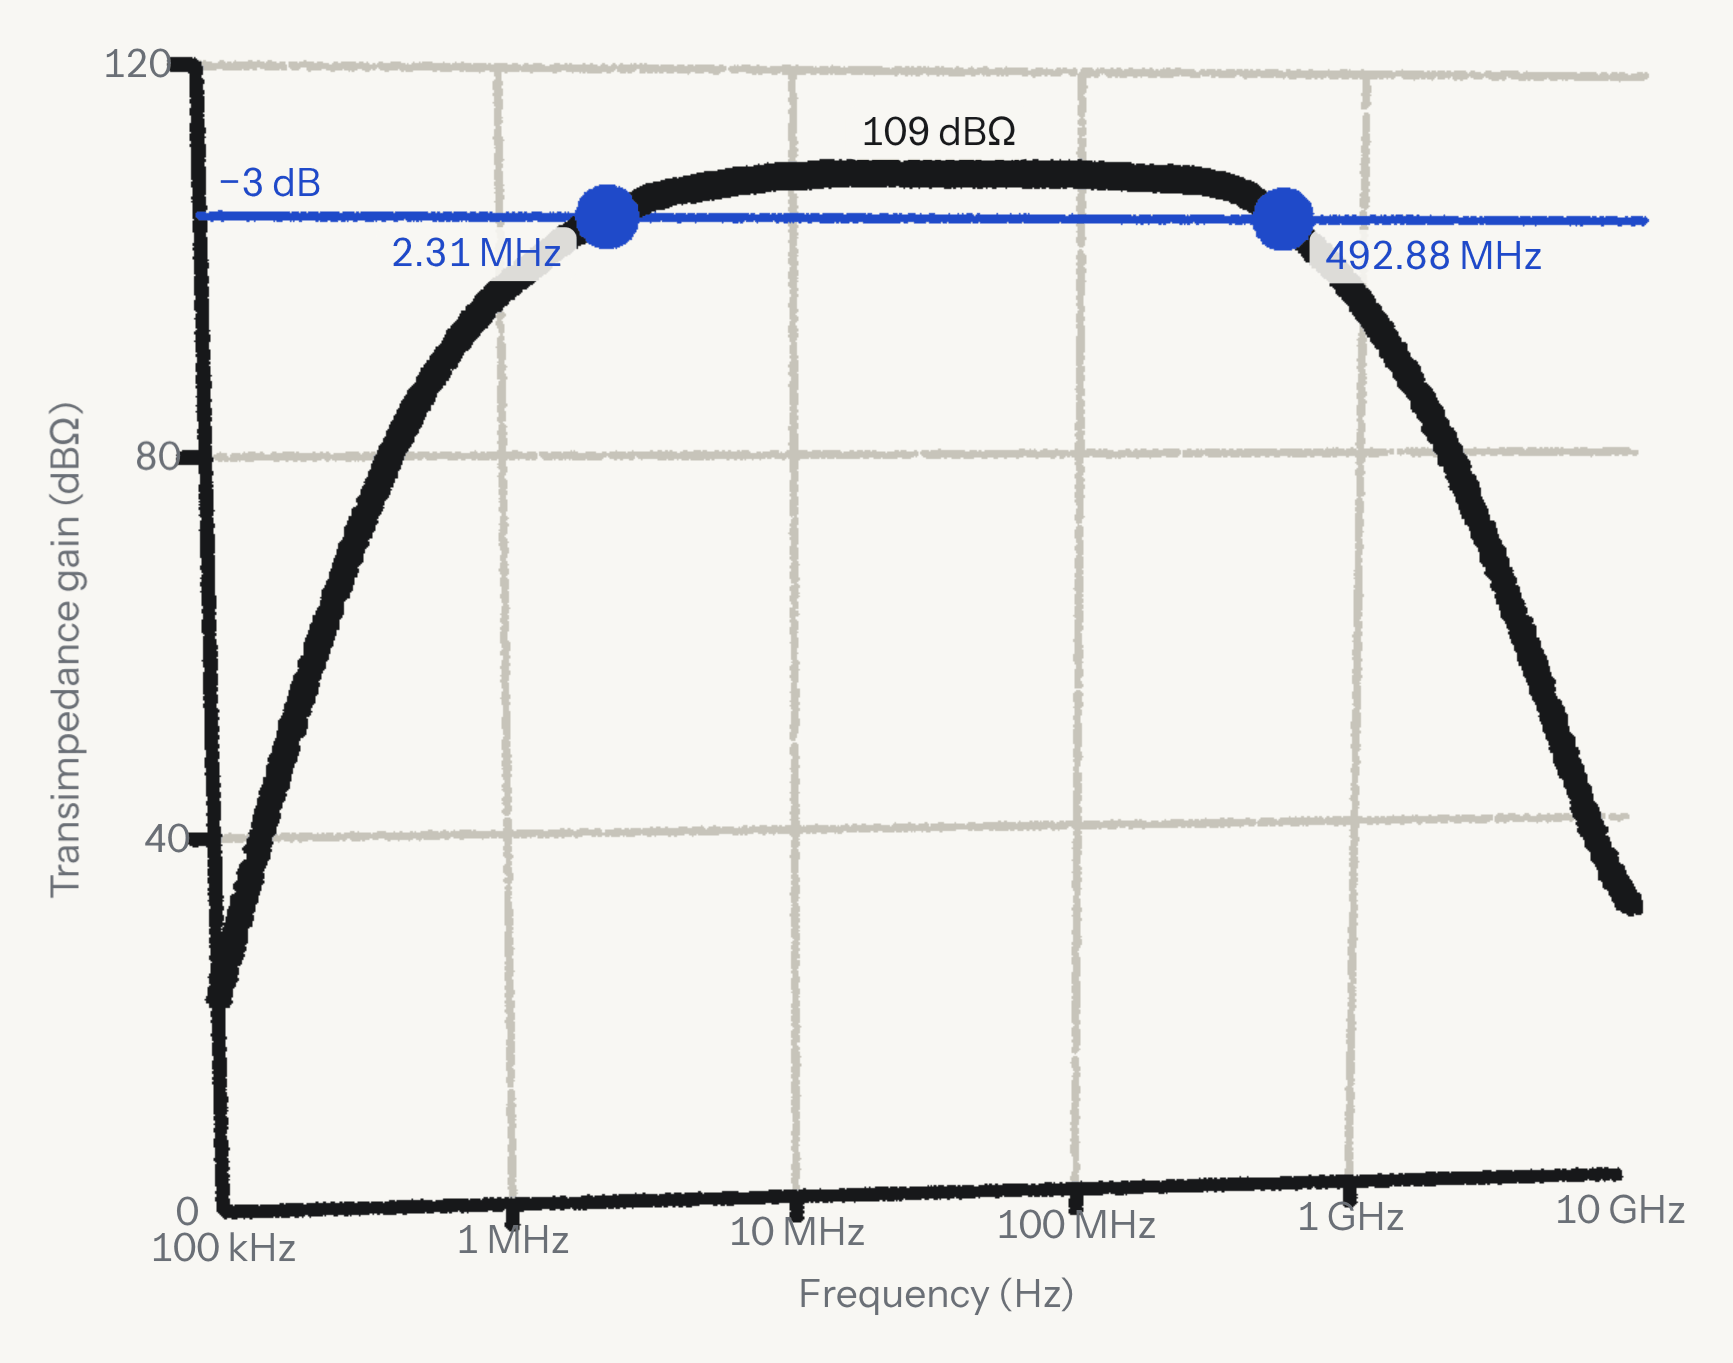
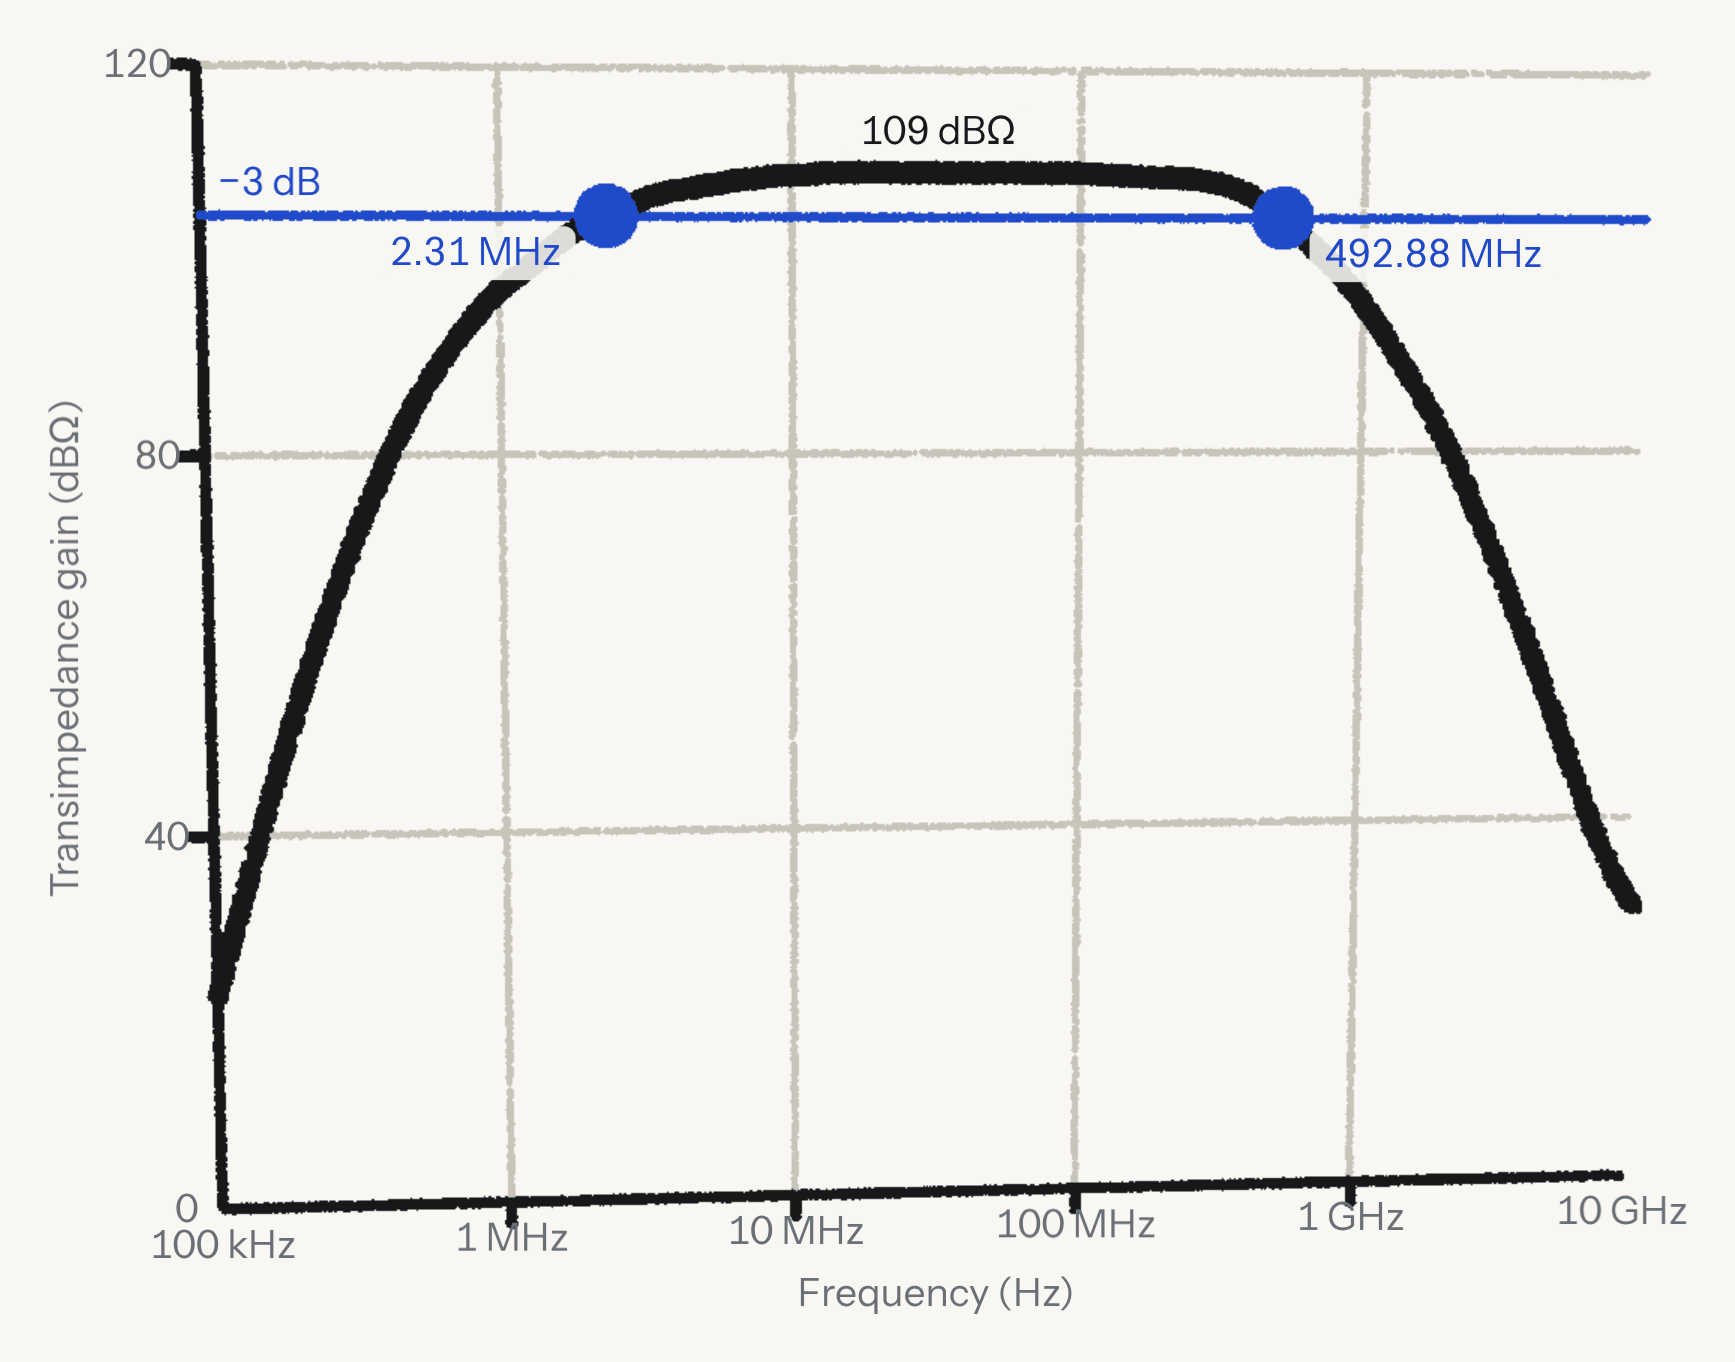
Hero holds each shape longer; thinner, crisper TIA line work; static figures re-captured
The hero track is 130vh per shape. Wires, axes and curves in the TIA shapes
use thinner rods and smaller points, so the drawings read sharper. The three
3x static figures are re-captured from the new shapes.

Claude-Session: https://claude.ai/code/session_018LMzagV9NcEfjj8oFWPqm4

diff --git a/assets/js/cloud.js b/assets/js/cloud.js
@@ -201,24 +201,24 @@
   // tubes. Values are mapped to the box X0..X1 by Y0..Y1; labels are HTML tags anchored to points.
   var X0 = -1.95, X1 = 2.25, Y0 = -1.4, Y1 = 1.9;
   function axesParts(parts, x0, x1, y0, y1, xs, ys) {
-    xs.forEach(function (x) { parts.push({ w: 0.08, emit: rod([x, y0, -0.02], [x, y1, -0.02], 0.006, LIGHT, 0.8 * COV) }); parts.push({ w: 0.015, emit: rod([x, y0 - 0.07, 0], [x, y0, 0], 0.012, INK, 0.9 * COV) }); });
-    ys.forEach(function (y) { parts.push({ w: 0.1, emit: rod([x0, y, -0.02], [x1, y, -0.02], 0.006, LIGHT, 0.8 * COV) }); parts.push({ w: 0.015, emit: rod([x0 - 0.07, y, 0], [x0, y, 0], 0.012, INK, 0.9 * COV) }); });
-    parts.push({ w: 0.4, emit: rod([x0, y0, 0], [x1, y0, 0], 0.012, INK, 0.9 * COV) });
-    parts.push({ w: 0.32, emit: rod([x0, y0, 0], [x0, y1, 0], 0.012, INK, 0.9 * COV) });
+    xs.forEach(function (x) { parts.push({ w: 0.08, emit: rod([x, y0, -0.02], [x, y1, -0.02], 0.005, LIGHT, 0.75 * COV) }); parts.push({ w: 0.015, emit: rod([x, y0 - 0.07, 0], [x, y0, 0], 0.009, INK, 0.8 * COV) }); });
+    ys.forEach(function (y) { parts.push({ w: 0.1, emit: rod([x0, y, -0.02], [x1, y, -0.02], 0.005, LIGHT, 0.75 * COV) }); parts.push({ w: 0.015, emit: rod([x0 - 0.07, y, 0], [x0, y, 0], 0.009, INK, 0.8 * COV) }); });
+    parts.push({ w: 0.4, emit: rod([x0, y0, 0], [x1, y0, 0], 0.009, INK, 0.8 * COV) });
+    parts.push({ w: 0.32, emit: rod([x0, y0, 0], [x0, y1, 0], 0.009, INK, 0.8 * COV) });
     return parts;
   }
   function chart(xs, ys) { return axesParts([], X0, X1, Y0, Y1, xs, ys); }
   // Points along a curve given as [x,y] in scene units, as a tube of the given radius at depth z.
   // wave is the amplitude the vertex shader adds as a travelling sine (0 for still points).
   function curve(fn, radius, z, color, wave) {
-    return function () { var s = rnd(), xy = fn(s), th = rnd() * 6.2832, r = radius * Math.sqrt(rnd()); return [xy[0] + r * Math.cos(th), xy[1] + r * Math.sin(th), z + (rnd() - .5) * radius, color, 1.1 * COV, wave || 0]; };
+    return function () { var s = rnd(), xy = fn(s), th = rnd() * 6.2832, r = radius * Math.sqrt(rnd()); return [xy[0] + r * Math.cos(th), xy[1] + r * Math.sin(th), z + (rnd() - .5) * radius, color, 0.95 * COV, wave || 0]; };
   }
   function disc(c, r, color) {
     return function () { var th = rnd() * 6.2832, q = r * Math.sqrt(rnd()); return [c[0] + q * Math.cos(th), c[1] + q * Math.sin(th), c[2], color, 1.1 * COV]; };
   }
 
   // ---- Schematic drawing: wires and symbols in the x-y plane, as parts ----
-  var WIRE = 0.012, SYM = 1.25;
+  var WIRE = 0.009, SYM = 0.95;   // thin wires drawn with small, dense points read crisper than thick fuzzy ones
   function W(parts, a, b, color, r) { var len = Math.hypot(b[0] - a[0], b[1] - a[1]); if (len < 1e-6) return; parts.push({ w: 0.42 * len, emit: rod([a[0], a[1], 0], [b[0], b[1], 0], r || WIRE, color, SYM * COV) }); }
   function poly(parts, pts, color) { for (var i = 1; i < pts.length; i++) W(parts, pts[i - 1], pts[i], color); }
   function arc(parts, c, r, a0, a1, color) { var n = 14, pts = []; for (var i = 0; i <= n; i++) { var a = a0 + (a1 - a0) * i / n; pts.push([c[0] + r * Math.cos(a), c[1] + r * Math.sin(a)]); } poly(parts, pts, color); }
@@ -367,8 +367,8 @@
     var parts = [], yiT = 1.95, yiB = 1.15, yvT = 0.75, yvB = -1.4, ci = (yiT + yiB) / 2, cv = (yvT + yvB) / 2, ai = 0.27, av = 0.297 / 0.33 * (yvT - cv);
     axesParts(parts, X0, X1, yiB, yiT, [], [ci]);
     axesParts(parts, X0, X1, yvB, yvT, [(X0 + X1) / 2], [cv, cv + av, cv - av]);
-    parts.push({ w: 1.0, emit: curve(function (s) { return [X0 + s * (X1 - X0), ci]; }, 0.024, 0.03, BLUE, ai) });
-    parts.push({ w: 1.6, emit: curve(function (s) { return [X0 + s * (X1 - X0), cv]; }, 0.03, 0.03, INK, av) });
+    parts.push({ w: 1.0, emit: curve(function (s) { return [X0 + s * (X1 - X0), ci]; }, 0.02, 0.03, BLUE, ai) });
+    parts.push({ w: 1.6, emit: curve(function (s) { return [X0 + s * (X1 - X0), cv]; }, 0.024, 0.03, INK, av) });
     // peak-to-peak brackets at the right edge
     [[ci, ai], [cv, av]].forEach(function (b) { var x = X1 + 0.14; parts.push({ w: 0.12, emit: rod([x, b[0] - b[1], 0], [x, b[0] + b[1], 0], 0.01, INK, 0.9 * COV) }); [-1, 1].forEach(function (s) { parts.push({ w: 0.03, emit: rod([x - 0.06, b[0] + s * b[1], 0], [x + 0.06, b[0] + s * b[1], 0], 0.01, INK, 0.9 * COV) }); }); });
     var tags = {
@@ -393,7 +393,7 @@
     var gainAt = function (lg) { var i = 0; while (i < data.length - 2 && data[i + 1][0] < lg) i++; var a = data[i], b = data[i + 1], f = Math.min(1, Math.max(0, (lg - a[0]) / (b[0] - a[0]))); return a[1] + (b[1] - a[1]) * f; };
     var lgStart = Math.max(LG0, data[0][0]);
     var parts = chart([6, 7, 8, 9].map(fx), [40, 80, 120].map(fy));
-    parts.push({ w: 1.6, emit: curve(function (s) { var lg = lgStart + s * (LG1 - lgStart); return [fx(lg), fy(Math.max(DB0, gainAt(lg)))]; }, 0.03, 0.03, INK) });
+    parts.push({ w: 1.6, emit: curve(function (s) { var lg = lgStart + s * (LG1 - lgStart); return [fx(lg), fy(Math.max(DB0, gainAt(lg)))]; }, 0.024, 0.03, INK) });
     parts.push({ w: 0.25, emit: rod([X0, fy(L3), 0.01], [X1, fy(L3), 0.01], 0.006, shade(BLUE, 1.0), 0.8 * COV) });
     var lo = Math.log10(2.31102e6), hi = Math.log10(492.868e6);
     parts.push({ w: 0.07, emit: disc([fx(lo), fy(L3), 0.05], 0.08, BLUE) }); parts.push({ w: 0.07, emit: disc([fx(hi), fy(L3), 0.05], 0.08, BLUE) });

diff --git a/index.html b/index.html
@@ -171,7 +171,7 @@ cloud: true
                 </ul>
                 <figure class="fig fig--static step-fig">
                   <p class="fig-title"><b>45 nm CMOS TIA.</b> Signal chain.</p>
-                  <img src="{{ '/assets/img/tia-chain.png' | relative_url }}" width="2028" height="1360" alt="Schematic of the TIA signal chain: photodiode model, common-gate stage, differential pair, four common-source stages per path, source followers, 600 Ω load" loading="lazy">
+                  <img src="{{ '/assets/img/tia-chain.png' | relative_url }}" width="2028" height="1358" alt="Schematic of the TIA signal chain: photodiode model, common-gate stage, differential pair, four common-source stages per path, source followers, 600 Ω load" loading="lazy">
                 </figure>
               </div>
               <div class="stage-step" data-step="1">
@@ -189,7 +189,7 @@ cloud: true
                 <p class="case-intro">Gain flat at 109 dBΩ from 2.31 MHz to 492.88 MHz, from the Spectre AC sweep of VOP minus VON over the photodiode current.</p>
                 <figure class="fig fig--static step-fig">
                   <p class="fig-title"><b>45 nm CMOS TIA.</b> Spectre simulation, 1 V supply.</p>
-                  <img src="{{ '/assets/img/tia-gain.png' | relative_url }}" width="1733" height="1363" alt="Transimpedance gain against frequency: flat at 109 dBΩ, 3 dB down at 2.31 MHz and 492.88 MHz" loading="lazy">
+                  <img src="{{ '/assets/img/tia-gain.png' | relative_url }}" width="1735" height="1362" alt="Transimpedance gain against frequency: flat at 109 dBΩ, 3 dB down at 2.31 MHz and 492.88 MHz" loading="lazy">
                 </figure>
               </div>
             </div>
@@ -241,7 +241,7 @@ cloud: true
                 </div>
                 <figure class="fig fig--static box-fig" data-for="0">
                   <p class="fig-title"><b>45 nm CMOS TIA.</b> Signal chain.</p>
-                  <img src="{{ '/assets/img/tia-chain.png' | relative_url }}" width="2028" height="1360" alt="Schematic of the TIA signal chain: photodiode model, common-gate stage, differential pair, four common-source stages per path, source followers, 600 Ω load" loading="lazy">
+                  <img src="{{ '/assets/img/tia-chain.png' | relative_url }}" width="2028" height="1358" alt="Schematic of the TIA signal chain: photodiode model, common-gate stage, differential pair, four common-source stages per path, source followers, 600 Ω load" loading="lazy">
                 </figure>
                 <figure class="fig fig--static box-fig" data-for="1">
                   <p class="fig-title"><b>45 nm CMOS TIA.</b> Transient simulation, 300 MHz.</p>
@@ -249,7 +249,7 @@ cloud: true
                 </figure>
                 <figure class="fig fig--static box-fig" data-for="2">
                   <p class="fig-title"><b>45 nm CMOS TIA.</b> Spectre simulation, 1 V supply.</p>
-                  <img src="{{ '/assets/img/tia-gain.png' | relative_url }}" width="1733" height="1363" alt="Transimpedance gain against frequency: flat at 109 dBΩ, 3 dB down at 2.31 MHz and 492.88 MHz" loading="lazy">
+                  <img src="{{ '/assets/img/tia-gain.png' | relative_url }}" width="1735" height="1362" alt="Transimpedance gain against frequency: flat at 109 dBΩ, 3 dB down at 2.31 MHz and 492.88 MHz" loading="lazy">
                 </figure>
               </div>
             </div>

diff --git a/assets/css/style.css b/assets/css/style.css
@@ -144,7 +144,7 @@ main { padding-top: var(--nav-h); }
 .hero-track, .hero-pin { position: relative; }
 .cloud-canvas, .cloud-panel, .cloud-tags { display: none; }
 .hero.has-cloud { padding: 0; }
-.hero.has-cloud .hero-track { height: calc(var(--shapes, 2) * 100vh + 40vh); }
+.hero.has-cloud .hero-track { height: calc(var(--shapes, 2) * 130vh + 40vh); }   /* 130vh per shape: each shape holds for more than a screen of scroll */
 .hero.has-cloud .hero-pin { position: sticky; top: var(--nav-h); height: calc(100vh - var(--nav-h)); display: flex; align-items: center; }
 .hero.has-cloud .hero-grid { grid-template-columns: minmax(0, .95fr) minmax(0, 1.05fr); width: 100%; }
 .hero.has-cloud .hero-visual { position: relative; height: min(72vh, 680px); }
